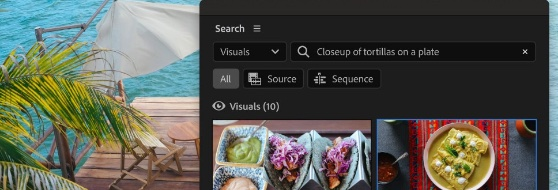
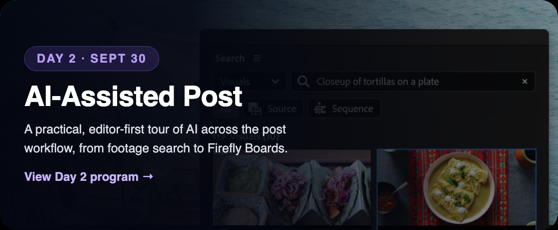
Redesign Day 1/Day 2 as full-bleed image bands with baked-in copy, remove ghost numerals
- flattened image treatment (photo + gradient + text baked in) instead of card grid
- darker overlay for text legibility, deliberate object-position on source imagery
- removes the 'looks like a session list' problem from the boxed-card version
- fixed link underline, date line-wrap, reverted pricing line per feedback

diff --git a/MPIP26-Email-01-Launch-Announcement.html b/MPIP26-Email-01-Launch-Announcement.html
@@ -69,7 +69,7 @@ isEnabledForEmailV3Rendering: true
       <!-- INTRO -->
       <tr><td class="px" align="center" bgcolor="#000000" style="background:#000000; padding:18px 36px 0;">
         <p style="margin:0 auto 14px; max-width:492px; font-family:'Source Sans 3',Arial,sans-serif; font-weight:350; font-size:15.5px; line-height:1.62; color:#D7DCE5; text-align:center; text-wrap:balance;">For decades, color correction belonged to colorists. Editors saw it as too technical, too intimidating, a world apart from the creative flow of storytelling. Adobe&rsquo;s new Color Mode changes that, and FMC is partnering with Adobe to teach it.</p>
-        <p style="margin:0 auto 0; max-width:492px; font-family:'Source Sans 3',Arial,sans-serif; font-weight:350; font-size:15.5px; line-height:1.62; color:#D7DCE5; text-align:center; text-wrap:balance;"><a href="https://www.postinpremiere.com/?utm_campaign=MPIP-2026&utm_source=hs_email&utm_medium=email&utm_content=launch_intro_link" style="color:#F5F7FA; font-weight:700; text-decoration:underline;">Modern Post in Premiere</a> is a two-day live online training, <span style="color:#22D3EE; font-weight:600;">September 29&ndash;30</span>, built around the two biggest shifts in Premiere right now.</p>
+        <p style="margin:0 auto 0; max-width:492px; font-family:'Source Sans 3',Arial,sans-serif; font-weight:350; font-size:15.5px; line-height:1.62; color:#D7DCE5; text-align:center; text-wrap:balance;"><a href="https://www.postinpremiere.com/?utm_campaign=MPIP-2026&utm_source=hs_email&utm_medium=email&utm_content=launch_intro_link" style="color:#F5F7FA; font-weight:700; text-decoration:none;">Modern Post in Premiere</a> is a two-day live online training, <span style="color:#22D3EE; font-weight:600; white-space:nowrap;">September 29&ndash;30</span>, built around the two biggest shifts in Premiere right now.</p>
       </td></tr>
 
       <!-- CTA: REGISTER NOW -->
@@ -89,32 +89,14 @@ isEnabledForEmailV3Rendering: true
         <div style="height:1px; background:rgba(255,255,255,.12); font-size:0; line-height:0;">&nbsp;</div>
       </td></tr>
 
-      <!-- DAY 1 CARD -->
+      <!-- DAY 1 BAND (flattened photo + baked-in copy, single click-through) -->
       <tr><td class="px" bgcolor="#000000" style="background:#000000; padding:26px 30px 0;">
-        <table role="presentation" width="100%" cellpadding="0" cellspacing="0" bgcolor="#0A0E16" style="border:1px solid rgba(34,211,238,.35); border-radius:16px; overflow:hidden; box-shadow:0 8px 30px rgba(0,0,0,.45); background:#0A0E16;">
-          <tr><td bgcolor="#05070C" style="font-size:0; line-height:0; background:#05070C;"><a href="https://www.postinpremiere.com/?utm_campaign=MPIP-2026&utm_source=hs_email&utm_medium=email&utm_content=launch_day1_card#agenda" target="_blank" style="text-decoration:none;"><img src="assets/day1-card-558x190.jpg" width="558" height="190" alt="Day 1: Color Mode" style="display:block; width:100%; max-width:100%; height:auto; border:0;"></a></td></tr>
-          <tr><td height="3" bgcolor="#22D3EE" style="background:#22D3EE; font-size:0; line-height:0;">&nbsp;</td></tr>
-          <tr><td bgcolor="#0A0E16" style="background:#0A0E16; padding:20px 26px 20px;">
-            <a href="https://www.postinpremiere.com/?utm_campaign=MPIP-2026&utm_source=hs_email&utm_medium=email&utm_content=launch_day1_title#agenda" target="_blank" style="display:block; font-family:'Source Sans 3',Arial,sans-serif; font-size:20px; font-weight:700; color:#F8FAFC; line-height:1.22; letter-spacing:-.01em; text-decoration:none;">Day 1: Color Mode</a>
-            <div class="cmeta" style="margin-top:11px; font-family:'Source Sans 3',Arial,sans-serif; font-weight:600; font-size:13px; letter-spacing:.027em; color:#22D3EE;">Sept 29 &nbsp;&middot;&nbsp; 9 AM&ndash;5:30 PM ET &nbsp;&middot;&nbsp; Live Online</div>
-            <div style="margin-top:11px; font-family:'Source Sans 3',Arial,sans-serif; font-weight:350; font-size:14px; line-height:1.58; color:#CDD5E1; text-wrap:pretty;">A full day inside Adobe&rsquo;s new grading workspace: primary correction, secondaries and creative grading, and managing grades across an entire project. The day closes with a live Q&amp;A with Alexis Van Hurkman, Principal Product Manager of Color at Adobe &mdash; bring your Color Mode questions and workflow challenges.</div>
-            <table role="presentation" cellpadding="0" cellspacing="0" style="margin-top:15px;"><tr><td bgcolor="#0A0E16" style="background:#0A0E16; border:1px solid rgba(34,211,238,0.55); border-radius:100px; padding:9px 20px 11px;"><a href="https://www.postinpremiere.com/?utm_campaign=MPIP-2026&utm_source=hs_email&utm_medium=email&utm_content=launch_day1_details#agenda" target="_blank" style="display:inline-block; mso-line-height-rule:exactly; line-height:15px; font-family:'Source Sans 3',Arial,sans-serif; font-size:12.5px; font-weight:700; color:#8FE3F5; text-decoration:none; white-space:nowrap;">View Day 1 program<span style="padding-left:6px;">&rarr;</span></a></td></tr></table>
-          </td></tr>
-        </table>
+        <a href="https://www.postinpremiere.com/?utm_campaign=MPIP-2026&utm_source=hs_email&utm_medium=email&utm_content=launch_day1_band#agenda" target="_blank" style="text-decoration:none;"><img src="assets/day1-card-558x190.jpg" width="558" height="230" alt="Day 1, September 29: Color Mode. A full day inside Adobe's new grading workspace, closing with a live Q&amp;A with Alexis Van Hurkman. View Day 1 program." style="display:block; width:100%; max-width:100%; height:auto; border:0; border-radius:16px;"></a>
       </td></tr>
 
-      <!-- DAY 2 CARD -->
+      <!-- DAY 2 BAND -->
       <tr><td class="px" bgcolor="#000000" style="background:#000000; padding:16px 30px 0;">
-        <table role="presentation" width="100%" cellpadding="0" cellspacing="0" bgcolor="#0A0E16" style="border:1px solid rgba(139,92,246,.35); border-radius:16px; overflow:hidden; box-shadow:0 8px 30px rgba(0,0,0,.45); background:#0A0E16;">
-          <tr><td bgcolor="#05070C" style="font-size:0; line-height:0; background:#05070C;"><a href="https://www.postinpremiere.com/?utm_campaign=MPIP-2026&utm_source=hs_email&utm_medium=email&utm_content=launch_day2_card#agenda" target="_blank" style="text-decoration:none;"><img src="assets/day2-card-558x190.jpg" width="558" height="190" alt="Day 2: AI-Assisted Post-Production" style="display:block; width:100%; max-width:100%; height:auto; border:0;"></a></td></tr>
-          <tr><td height="3" bgcolor="#8B5CF6" style="background:#8B5CF6; font-size:0; line-height:0;">&nbsp;</td></tr>
-          <tr><td bgcolor="#0A0E16" style="background:#0A0E16; padding:20px 26px 20px;">
-            <a href="https://www.postinpremiere.com/?utm_campaign=MPIP-2026&utm_source=hs_email&utm_medium=email&utm_content=launch_day2_title#agenda" target="_blank" style="display:block; font-family:'Source Sans 3',Arial,sans-serif; font-size:20px; font-weight:700; color:#F8FAFC; line-height:1.22; letter-spacing:-.01em; text-decoration:none;">Day 2: AI-Assisted Post-Production</a>
-            <div class="cmeta" style="margin-top:11px; font-family:'Source Sans 3',Arial,sans-serif; font-weight:600; font-size:13px; letter-spacing:.027em; color:#B79CF7;">Sept 30 &nbsp;&middot;&nbsp; 9 AM&ndash;5:30 PM ET &nbsp;&middot;&nbsp; Live Online</div>
-            <div style="margin-top:11px; font-family:'Source Sans 3',Arial,sans-serif; font-weight:350; font-size:14px; line-height:1.58; color:#CDD5E1; text-wrap:pretty;">A practical, editor-first tour of AI across the post workflow: finding the story in your footage, editing faster, fixing what is missing, finishing sound, and planning with Firefly Boards.</div>
-            <table role="presentation" cellpadding="0" cellspacing="0" style="margin-top:15px;"><tr><td bgcolor="#0A0E16" style="background:#0A0E16; border:1px solid rgba(139,92,246,0.55); border-radius:100px; padding:9px 20px 11px;"><a href="https://www.postinpremiere.com/?utm_campaign=MPIP-2026&utm_source=hs_email&utm_medium=email&utm_content=launch_day2_details#agenda" target="_blank" style="display:inline-block; mso-line-height-rule:exactly; line-height:15px; font-family:'Source Sans 3',Arial,sans-serif; font-size:12.5px; font-weight:700; color:#C9B3FF; text-decoration:none; white-space:nowrap;">View Day 2 program<span style="padding-left:6px;">&rarr;</span></a></td></tr></table>
-          </td></tr>
-        </table>
+        <a href="https://www.postinpremiere.com/?utm_campaign=MPIP-2026&utm_source=hs_email&utm_medium=email&utm_content=launch_day2_band#agenda" target="_blank" style="text-decoration:none;"><img src="assets/day2-card-558x190.jpg" width="558" height="230" alt="Day 2, September 30: AI-Assisted Post-Production. A practical, editor-first tour of AI across the post workflow, from footage search to Firefly Boards. View Day 2 program." style="display:block; width:100%; max-width:100%; height:auto; border:0; border-radius:16px;"></a>
       </td></tr>
 
       <!-- WHO IS TEACHING -->
@@ -126,7 +108,7 @@ isEnabledForEmailV3Rendering: true
       <!-- THE DETAILS / PRICING -->
       <tr><td class="px" align="center" bgcolor="#000000" style="background:#000000; padding:30px 36px 0;">
         <p style="margin:0 auto 14px; max-width:492px; font-family:'Source Sans 3',Arial,sans-serif; font-weight:350; font-size:15.5px; line-height:1.62; color:#D7DCE5; text-align:center; text-wrap:balance;"><span style="color:#22D3EE; font-weight:600;">September 29&ndash;30, 2026</span>, 9:00 AM to 5:30 PM ET, live on Zoom. Real-time captions during every session, professionally dubbed recordings on request, and 180 days of on-demand access to the recordings included with your ticket.</p>
-        <p style="margin:0 auto; max-width:470px; font-family:'Source Sans 3',Arial,sans-serif; font-size:17px; font-weight:400; line-height:1.36; letter-spacing:-.01em; color:#FFFFFF; text-align:center; text-wrap:balance;">Single day: $99 &mdash; that day, plus its recording for 180 days. <span style="font-weight:700;">Both days: $149</span> &mdash; both days, plus both recordings for 180 days.</p>
+        <p style="margin:0 auto; max-width:470px; font-family:'Source Sans 3',Arial,sans-serif; font-size:17px; font-weight:400; line-height:1.36; letter-spacing:-.01em; color:#FFFFFF; text-align:center; text-wrap:balance;">Single day: $99. <span style="font-weight:700;">Both days: $149.</span></p>
       </td></tr>
 
       <!-- CTA ROW: VIEW PROGRAM + REGISTER (single line on mobile, stacked with gap) -->

diff --git a/assets/src/day-options.html b/assets/src/day-options.html
@@ -1,0 +1,104 @@
+<!DOCTYPE html>
+<html><head><meta charset="UTF-8">
+<link href="https://fonts.googleapis.com/css2?family=Source+Sans+3:ital,wght@0,300;0,350;0,400;0,600;0,700;0,800&display=swap" rel="stylesheet">
+<style>
+  *{margin:0;padding:0;box-sizing:border-box}
+  body{width:680px;background:#050810;font-family:'Source Sans 3',sans-serif;padding:30px}
+  .optlabel{color:#8b90a5;font-size:13px;font-weight:700;letter-spacing:.1em;text-transform:uppercase;margin:0 0 14px;padding-top:40px}
+  .optlabel:first-child{padding-top:0}
+  .card{background:#000;border-radius:18px;padding:20px}
+
+  /* ============ OPTION A: side-by-side day panels ============ */
+  .a-wrap{display:flex;gap:12px}
+  .a-day{flex:1;background:#0A0E16;border-radius:14px;padding:22px 18px;border:1px solid rgba(255,255,255,.10)}
+  .a-day.d1{border-top:3px solid #22D3EE}
+  .a-day.d2{border-top:3px solid #8B5CF6}
+  .a-num{font-size:12px;font-weight:800;letter-spacing:.16em;text-transform:uppercase}
+  .a-day.d1 .a-num{color:#22D3EE}
+  .a-day.d2 .a-num{color:#B79CF7}
+  .a-date{margin-top:4px;font-size:12px;color:#8b90a5}
+  .a-title{margin-top:14px;font-size:22px;font-weight:800;color:#F8FAFC;line-height:1.15}
+  .a-desc{margin-top:10px;font-size:12.5px;line-height:1.5;color:#CDD5E1}
+  .a-link{margin-top:14px;font-size:12px;font-weight:700;color:#8FE3F5}
+
+  /* ============ OPTION B: full-width chapter/section break ============ */
+  .b-day{padding:26px 0;border-bottom:1px solid rgba(255,255,255,.08)}
+  .b-day:last-child{border-bottom:0}
+  .b-eyebrow{display:flex;align-items:center;gap:14px}
+  .b-eyebrow .tag{font-size:13px;font-weight:800;letter-spacing:.14em;text-transform:uppercase;padding:5px 14px;border-radius:999px}
+  .b-day.d1 .tag{background:rgba(34,211,238,.14);color:#22D3EE;border:1px solid rgba(34,211,238,.4)}
+  .b-day.d2 .tag{background:rgba(139,92,246,.14);color:#B79CF7;border:1px solid rgba(139,92,246,.4)}
+  .b-eyebrow .date{font-size:12.5px;color:#8b90a5}
+  .b-title{margin-top:12px;font-size:28px;font-weight:800;color:#F8FAFC;line-height:1.1}
+  .b-desc{margin-top:10px;font-size:13.5px;line-height:1.55;color:#CDD5E1;max-width:480px}
+  .b-link{margin-top:12px;font-size:12.5px;font-weight:700;color:#8FE3F5}
+
+  /* ============ OPTION C: one unified card, internal split ============ */
+  .c-card{background:#0A0E16;border-radius:16px;border:1px solid rgba(255,255,255,.10);overflow:hidden}
+  .c-half{padding:22px 24px;position:relative}
+  .c-half.d1{border-bottom:1px solid rgba(255,255,255,.08)}
+  .c-corner{position:absolute;top:0;right:0;font-size:11px;font-weight:800;letter-spacing:.12em;text-transform:uppercase;
+    padding:6px 14px;border-bottom-left-radius:10px}
+  .c-half.d1 .c-corner{background:#22D3EE;color:#000}
+  .c-half.d2 .c-corner{background:#8B5CF6;color:#fff}
+  .c-date{font-size:11.5px;color:#8b90a5;font-weight:600}
+  .c-title{margin-top:8px;font-size:21px;font-weight:800;color:#F8FAFC}
+  .c-desc{margin-top:8px;font-size:12.5px;line-height:1.5;color:#CDD5E1;max-width:440px}
+</style></head>
+<body>
+
+<div class="optlabel">Option A &middot; side-by-side day panels &mdash; reads as "pick your day," not a session list</div>
+<div class="card">
+  <div class="a-wrap">
+    <div class="a-day d1">
+      <div class="a-num">Day 1</div>
+      <div class="a-date">Sept 29 &middot; Live Online</div>
+      <div class="a-title">Color Mode</div>
+      <div class="a-desc">A full day inside Adobe's new grading workspace, closing with a live Q&amp;A with Alexis Van Hurkman.</div>
+      <div class="a-link">View Day 1 program &rarr;</div>
+    </div>
+    <div class="a-day d2">
+      <div class="a-num">Day 2</div>
+      <div class="a-date">Sept 30 &middot; Live Online</div>
+      <div class="a-title">AI-Assisted Post</div>
+      <div class="a-desc">A practical, editor-first tour of AI across the post workflow, from footage search to Firefly Boards.</div>
+      <div class="a-link">View Day 2 program &rarr;</div>
+    </div>
+  </div>
+</div>
+
+<div class="optlabel">Option B &middot; full-width chapter breaks &mdash; no card/box at all, reads like two acts of one program</div>
+<div class="card">
+  <div class="b-day d1">
+    <div class="b-eyebrow"><span class="tag">Day 1</span><span class="date">Sept 29 &middot; 9 AM&ndash;5:30 PM ET</span></div>
+    <div class="b-title">Color Mode</div>
+    <div class="b-desc">A full day inside Adobe's new grading workspace: primary correction, secondaries and creative grading, and managing grades across an entire project. Closes with a live Q&amp;A with Alexis Van Hurkman.</div>
+    <div class="b-link">View Day 1 program &rarr;</div>
+  </div>
+  <div class="b-day d2">
+    <div class="b-eyebrow"><span class="tag">Day 2</span><span class="date">Sept 30 &middot; 9 AM&ndash;5:30 PM ET</span></div>
+    <div class="b-title">AI-Assisted Post-Production</div>
+    <div class="b-desc">A practical, editor-first tour of AI across the post workflow: finding the story in your footage, editing faster, fixing what is missing, finishing sound, and planning with Firefly Boards.</div>
+    <div class="b-link">View Day 2 program &rarr;</div>
+  </div>
+</div>
+
+<div class="optlabel">Option C &middot; one unified card, split in half &mdash; visually says "one program" with a day tag per half, not two separate tiles</div>
+<div class="card">
+  <div class="c-card">
+    <div class="c-half d1">
+      <div class="c-corner">Day 1</div>
+      <div class="c-date">Sept 29 &middot; 9 AM&ndash;5:30 PM ET</div>
+      <div class="c-title">Color Mode</div>
+      <div class="c-desc">A full day inside Adobe's new grading workspace, closing with a live Q&amp;A with Alexis Van Hurkman.</div>
+    </div>
+    <div class="c-half d2">
+      <div class="c-corner">Day 2</div>
+      <div class="c-date">Sept 30 &middot; 9 AM&ndash;5:30 PM ET</div>
+      <div class="c-title">AI-Assisted Post-Production</div>
+      <div class="c-desc">A practical, editor-first tour of AI across the post workflow, from footage search to Firefly Boards.</div>
+    </div>
+  </div>
+</div>
+
+</body></html>

diff --git a/assets/src/day-options2.html b/assets/src/day-options2.html
@@ -1,0 +1,90 @@
+<!DOCTYPE html>
+<html><head><meta charset="UTF-8">
+<link href="https://fonts.googleapis.com/css2?family=Source+Sans+3:ital,wght@0,300;0,350;0,400;0,600;0,700;0,800&display=swap" rel="stylesheet">
+<style>
+  *{margin:0;padding:0;box-sizing:border-box}
+  body{width:680px;background:#050810;font-family:'Source Sans 3',sans-serif;padding:30px}
+  .optlabel{color:#8b90a5;font-size:13px;font-weight:700;letter-spacing:.1em;text-transform:uppercase;margin:0 0 14px;padding-top:44px}
+  .optlabel:first-child{padding-top:0}
+  .card{background:#000;border-radius:18px;padding:20px}
+
+  /* ============ OPTION D: full-bleed photo hero per day, ghost numeral ============ */
+  .d-day{position:relative;border-radius:16px;overflow:hidden;height:210px;margin-bottom:14px}
+  .d-day:last-child{margin-bottom:0}
+  .d-day img{position:absolute;inset:0;width:100%;height:100%;object-fit:cover;filter:brightness(.62) saturate(.9)}
+  .d-day.d1 img{object-position:38% 42%}
+  .d-day.d2 img{object-position:80% 22%}
+  .d-day::before{content:"";position:absolute;inset:0;background:rgba(3,6,17,.32)}
+  .d-day::after{content:"";position:absolute;inset:0;background:linear-gradient(90deg,rgba(3,6,17,.98) 0%,rgba(3,6,17,.9) 32%,rgba(3,6,17,.5) 60%,rgba(3,6,17,.15) 82%,transparent 100%)}
+  .d-ghost{position:absolute;left:14px;top:-28px;font-size:150px;font-weight:800;color:transparent;-webkit-text-stroke:1.5px rgba(255,255,255,.14);z-index:1;line-height:1}
+  .d-content{position:relative;z-index:2;padding:26px 24px;height:100%;display:flex;flex-direction:column;justify-content:center;max-width:340px}
+  .d-tag{display:inline-block;width:fit-content;font-size:11.5px;font-weight:800;letter-spacing:.14em;text-transform:uppercase;padding:5px 12px;border-radius:999px;margin-bottom:10px}
+  .d-day.d1 .d-tag{background:rgba(34,211,238,.16);color:#22D3EE;border:1px solid rgba(34,211,238,.4)}
+  .d-day.d2 .d-tag{background:rgba(139,92,246,.16);color:#B79CF7;border:1px solid rgba(139,92,246,.4)}
+  .d-title{font-size:26px;font-weight:800;color:#fff;line-height:1.08}
+  .d-desc{margin-top:8px;font-size:12px;line-height:1.5;color:#CDD5E1}
+  .d-link{margin-top:10px;font-size:12px;font-weight:700;color:#8FE3F5}
+
+  /* ============ OPTION E: diagonal spectrum split, single dynamic block ============ */
+  .e-wrap{position:relative;border-radius:18px;overflow:hidden;height:300px}
+  .e-half{position:absolute;top:0;bottom:0;width:56%;overflow:hidden}
+  .e-half img{position:absolute;inset:0;width:100%;height:100%;object-fit:cover}
+  .e-half.d1{left:0;clip-path:polygon(0 0,100% 0,80% 100%,0% 100%)}
+  .e-half.d2{right:0;clip-path:polygon(20% 0,100% 0,100% 100%,0% 100%)}
+  .e-half.d1::after{content:"";position:absolute;inset:0;background:linear-gradient(90deg,rgba(3,6,17,.95) 0%,rgba(3,6,17,.55) 55%,transparent 100%)}
+  .e-half.d2::after{content:"";position:absolute;inset:0;background:linear-gradient(270deg,rgba(3,6,17,.95) 0%,rgba(3,6,17,.55) 55%,transparent 100%)}
+  .e-divider{position:absolute;top:0;bottom:0;left:50%;width:3px;background:linear-gradient(180deg,#22D3EE,#8B5CF6,#E34FCB);transform:translateX(-50%) skewX(-12deg);z-index:3}
+  .e-content{position:absolute;z-index:2;top:0;bottom:0;width:44%;padding:26px 22px;display:flex;flex-direction:column;justify-content:center}
+  .e-content.d1{left:0}
+  .e-content.d2{right:0;text-align:right;align-items:flex-end}
+  .e-tag{font-size:11px;font-weight:800;letter-spacing:.14em;text-transform:uppercase}
+  .e-content.d1 .e-tag{color:#22D3EE}
+  .e-content.d2 .e-tag{color:#E9A6E0}
+  .e-title{margin-top:8px;font-size:23px;font-weight:800;color:#fff;line-height:1.1}
+  .e-date{margin-top:6px;font-size:11.5px;color:#9aa1b8}
+
+</style></head>
+<body>
+
+<div class="optlabel">Option D &middot; full-bleed photo per day, oversized ghost numeral, session imagery doing the work</div>
+<div class="card">
+  <div class="d-day d1">
+    <img src="../drive-src/screens/day1/02 Lab 1 - Primary Correction.png">
+    <div class="d-content">
+      <div class="d-tag">Day 1 &middot; Sept 29</div>
+      <div class="d-title">Color Mode</div>
+      <div class="d-desc">A full day inside Adobe's new grading workspace, closing with a live Q&amp;A with Alexis Van Hurkman.</div>
+      <div class="d-link">View Day 1 program &rarr;</div>
+    </div>
+  </div>
+  <div class="d-day d2">
+    <img src="../drive-src/screens/day2/01 Find the Story in the Footage.jpg">
+    <div class="d-content">
+      <div class="d-tag">Day 2 &middot; Sept 30</div>
+      <div class="d-title">AI-Assisted Post</div>
+      <div class="d-desc">A practical, editor-first tour of AI across the post workflow, from footage search to Firefly Boards.</div>
+      <div class="d-link">View Day 2 program &rarr;</div>
+    </div>
+  </div>
+</div>
+
+<div class="optlabel">Option E &middot; one dynamic diagonal block, both days at once, spectrum seam down the middle</div>
+<div class="card">
+  <div class="e-wrap">
+    <div class="e-half d1"><img src="../day1-card-558x190.jpg"></div>
+    <div class="e-half d2"><img src="../day2-card-558x190.jpg"></div>
+    <div class="e-divider"></div>
+    <div class="e-content d1">
+      <div class="e-tag">Day 1</div>
+      <div class="e-title">Color Mode</div>
+      <div class="e-date">Sept 29</div>
+    </div>
+    <div class="e-content d2">
+      <div class="e-tag">Day 2</div>
+      <div class="e-title">AI-Assisted Post</div>
+      <div class="e-date">Sept 30</div>
+    </div>
+  </div>
+</div>
+
+</body></html>

diff --git a/assets/src/day2-band-build.html b/assets/src/day2-band-build.html
@@ -1,0 +1,28 @@
+<!DOCTYPE html>
+<html><head><meta charset="UTF-8">
+<link href="https://fonts.googleapis.com/css2?family=Source+Sans+3:ital,wght@0,300;0,350;0,400;0,600;0,700;0,800&display=swap" rel="stylesheet">
+<style>
+  *{margin:0;padding:0;box-sizing:border-box}
+  html,body{width:1116px;height:460px;overflow:hidden;background:#000;font-family:'Source Sans 3',sans-serif}
+  .band{position:relative;width:1116px;height:460px;border-radius:32px;overflow:hidden}
+  .band img{position:absolute;inset:0;width:100%;height:100%;object-fit:cover;object-position:80% 22%;filter:brightness(.6) saturate(.9)}
+  .band::before{content:"";position:absolute;inset:0;background:rgba(3,6,17,.32)}
+  .band::after{content:"";position:absolute;inset:0;background:linear-gradient(90deg,rgba(3,6,17,.98) 0%,rgba(3,6,17,.92) 34%,rgba(3,6,17,.55) 60%,rgba(3,6,17,.18) 82%,transparent 100%)}
+  .content{position:relative;z-index:2;height:100%;display:flex;flex-direction:column;justify-content:center;padding:0 0 0 48px;max-width:640px}
+  .tag{display:inline-flex;width:fit-content;font-size:24px;font-weight:800;letter-spacing:.1em;text-transform:uppercase;padding:10px 24px;border-radius:999px;margin-bottom:22px;
+    background:rgba(139,92,246,.16);color:#B79CF7;border:1.5px solid rgba(139,92,246,.45)}
+  .title{font-size:56px;font-weight:800;color:#fff;line-height:1.05;letter-spacing:-.01em}
+  .desc{margin-top:18px;font-size:25px;line-height:1.5;color:#D7DCE5;max-width:560px}
+  .link{margin-top:24px;font-size:24px;font-weight:700;color:#C9B3FF}
+</style></head>
+<body>
+<div class="band">
+  <img src="../drive-src/screens/day2/01 Find the Story in the Footage.jpg">
+  <div class="content">
+    <div class="tag">Day 2 &middot; Sept 30</div>
+    <div class="title">AI-Assisted Post</div>
+    <div class="desc">A practical, editor-first tour of AI across the post workflow, from footage search to Firefly Boards.</div>
+    <div class="link">View Day 2 program &rarr;</div>
+  </div>
+</div>
+</body></html>

diff --git a/assets/src/day1-band-build.html b/assets/src/day1-band-build.html
@@ -1,0 +1,28 @@
+<!DOCTYPE html>
+<html><head><meta charset="UTF-8">
+<link href="https://fonts.googleapis.com/css2?family=Source+Sans+3:ital,wght@0,300;0,350;0,400;0,600;0,700;0,800&display=swap" rel="stylesheet">
+<style>
+  *{margin:0;padding:0;box-sizing:border-box}
+  html,body{width:1116px;height:460px;overflow:hidden;background:#000;font-family:'Source Sans 3',sans-serif}
+  .band{position:relative;width:1116px;height:460px;border-radius:32px;overflow:hidden}
+  .band img{position:absolute;inset:0;width:100%;height:100%;object-fit:cover;object-position:38% 42%;filter:brightness(.6) saturate(.9)}
+  .band::before{content:"";position:absolute;inset:0;background:rgba(3,6,17,.32)}
+  .band::after{content:"";position:absolute;inset:0;background:linear-gradient(90deg,rgba(3,6,17,.98) 0%,rgba(3,6,17,.92) 34%,rgba(3,6,17,.55) 60%,rgba(3,6,17,.18) 82%,transparent 100%)}
+  .content{position:relative;z-index:2;height:100%;display:flex;flex-direction:column;justify-content:center;padding:0 0 0 48px;max-width:640px}
+  .tag{display:inline-flex;width:fit-content;font-size:24px;font-weight:800;letter-spacing:.1em;text-transform:uppercase;padding:10px 24px;border-radius:999px;margin-bottom:22px;
+    background:rgba(34,211,238,.16);color:#22D3EE;border:1.5px solid rgba(34,211,238,.45)}
+  .title{font-size:56px;font-weight:800;color:#fff;line-height:1.05;letter-spacing:-.01em}
+  .desc{margin-top:18px;font-size:25px;line-height:1.5;color:#D7DCE5;max-width:560px}
+  .link{margin-top:24px;font-size:24px;font-weight:700;color:#8FE3F5}
+</style></head>
+<body>
+<div class="band">
+  <img src="../drive-src/screens/day1/02 Lab 1 - Primary Correction.png">
+  <div class="content">
+    <div class="tag">Day 1 &middot; Sept 29</div>
+    <div class="title">Color Mode</div>
+    <div class="desc">A full day inside Adobe&rsquo;s new grading workspace, closing with a live Q&amp;A with Alexis Van Hurkman.</div>
+    <div class="link">View Day 1 program &rarr;</div>
+  </div>
+</div>
+</body></html>
